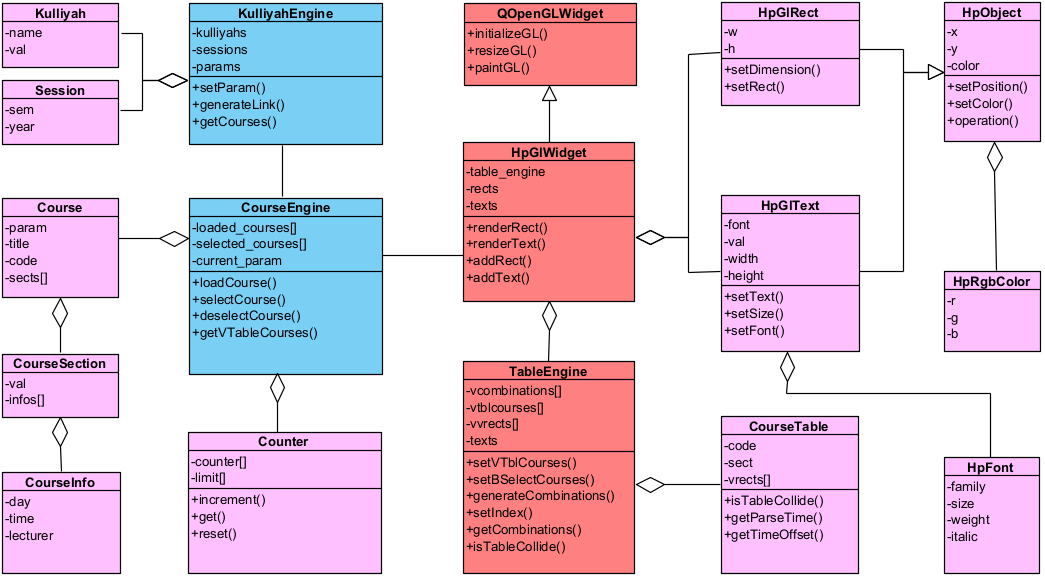
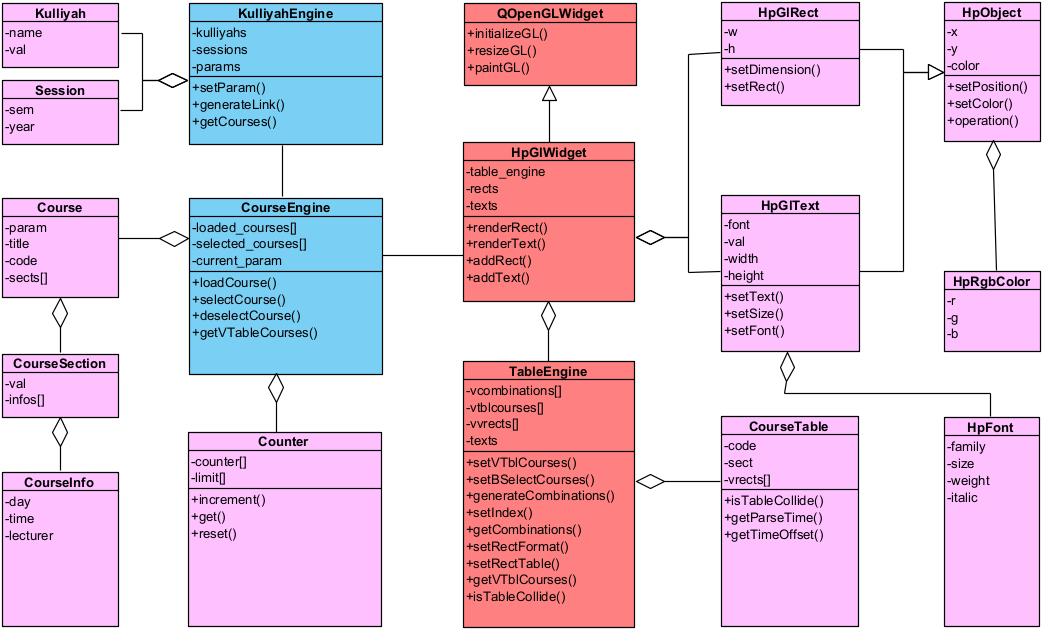
Added Table Format
Additions
- table formatting (date and time)
- vtblcourses getter

Changes
- table combination generation relies on table and format setters
- text renderer can have center and left sided state when rendering text

diff --git a/Prereg_Engines/table_engine.py b/Prereg_Engines/table_engine.py
@@ -1,7 +1,8 @@
-import copy
+import copy, math
 
 from Prereg_Engines.models import CourseTable, Counter, Text
 from HP_Framework.objects import  HpRgbColor
+from Prereg_Engines.models import Vector2n
 
 class TableEngine():
     def __init__(self):
@@ -42,7 +43,6 @@ class TableEngine():
                 self.bselected_courses[i] = bselected_courses[i]
             self.generateCombinations()
         
-
     def generateCombinations(self):
         n_size = 0
         vtbl_courses = []
@@ -87,25 +87,75 @@ class TableEngine():
         self.texts = []
 
         n_vrects = self.vvrects[self.index]
-        n_lower = n_upper = n_left = n_right = 0
+        n_b = {
+            'upper': 0, # 0
+            'right': 0, # 1
+            'lower': 0, # 2
+            'left': 0,  # 3
+        }
 
         for rects in n_vrects:
             for rect in rects:
-                if n_lower == 0 and n_upper == 0 and n_left == 0 and n_right == 0:
-                    n_lower = rect.y
-                    n_upper = rect.y + rect.h
+                if n_b['upper'] == 0 and n_b['right'] == 0 and n_b['lower'] == 0 and n_b['left'] == 0:
+                    n_b['lower'] = rect.y
+                    n_b['upper'] = rect.y + rect.h
                     continue
-                if rect.y < n_lower:
-                    n_lower = rect.y
-                if rect.y + rect.h > n_upper:
-                    n_upper = rect.y + rect.h
-                if rect.x < n_left:
-                    n_left = rect.x
-                if rect.x > n_right:
-                    n_right = rect.x
-        N_W = SCREEN_SIZE_X / (n_right - n_left + 1)  # day width constant
-        N_H = SCREEN_SIZE_Y / (n_upper - n_lower)     # time height constant
+                if rect.y < n_b['lower']:
+                    n_b['lower'] = rect.y
+                if rect.y + rect.h > n_b['upper']:
+                    n_b['upper'] = rect.y + rect.h
+                if rect.x < n_b['left']:
+                    n_b['left'] = rect.x
+                if rect.x > n_b['right']:
+                    n_b['right'] = rect.x
 
+        N_OFFSET = Vector2n(22, 21)
+        N_SIZE = Vector2n(SCREEN_SIZE_X, SCREEN_SIZE_Y)
+
+        args = self.setRectFormat(N_SIZE, N_OFFSET, n_b)
+        
+        N_SIZE.setParameter(SCREEN_SIZE_X - N_OFFSET.x, SCREEN_SIZE_Y - N_OFFSET.y)
+        N_H = args[2]
+        
+        N_OFFSET.y = N_OFFSET.y + N_OFFSET.y / 2 + args[0] * N_H
+        N_SIZE.y = N_SIZE.y - N_OFFSET.y - args[1] * N_H
+
+        self.setRectTable(N_SIZE, N_OFFSET, n_b, n_vrects, args[2])
+
+        return self.vcombinations[self.index]
+    
+    def setRectFormat(self, N_SIZE, N_OFFSET, n_b):
+        N_W = (N_SIZE.x - N_OFFSET.x) / (n_b['right'] - n_b['left'] + 1)  # day width constant
+        str_days = ["MON", "TUE", "WED", "THU", "FRI", "SAT", "SUN"]
+        texts = []
+        for i in range(n_b['left'], n_b['right'] + 1):
+            text = Text()
+            text.x = N_W * ((i - n_b['left']) + 0.5) + N_OFFSET.x
+            text.y = 0
+            text.val = str_days[i]
+            texts.append(text)
+
+        N_LOWER = int(math.floor(n_b['lower'] / 60))
+        N_UPPER = int(math.ceil(n_b['upper'] / 60))
+        N_H = (N_SIZE.y - N_OFFSET.y) / ((N_UPPER - N_LOWER + 1) * 60)     # time height constant
+        for i in range(N_LOWER, N_UPPER + 1):
+            str_i = str(i)
+            if len(str_i) < 2:
+                str_i = "0" + str_i
+            text = Text()
+            text.x = N_OFFSET.x / 2
+            text.y = (i - N_LOWER) * 60 * N_H + N_OFFSET.y
+            text.val = str_i
+            texts.append(text)
+        self.texts.append(texts)
+
+        return [(n_b['lower'] - N_LOWER * 60), (N_UPPER * 60 - n_b['upper']), N_H]
+
+    def setRectTable(self, N_SIZE, N_OFFSET, n_b, n_vrects, N_H):
+        N_W = N_SIZE.x / (n_b['right'] - n_b['left'] + 1)  # day width constant
+        # N_H = N_SIZE.y / (n_b['upper'] - n_b['lower'])     # time height constant
+
+        texts = []
         for i in range(len(self.vcombinations[self.index])):
             self.vcombinations[self.index][i].color = self.color[i]
             for j in range(len(self.vcombinations[self.index][i].vrects)):
@@ -115,8 +165,8 @@ class TableEngine():
 
                     tbl_course = self.vcombinations[self.index][i]
                     rect = tbl_course.vrects[j][k]
-                    rect.x = n_vrects[i][l].x * N_W
-                    rect.y = (n_vrects[i][l].y - n_lower) * N_H
+                    rect.x = (n_vrects[i][l].x - n_b['left']) * N_W + N_OFFSET.x
+                    rect.y = (n_vrects[i][l].y - n_b['lower']) * N_H + N_OFFSET.y
                     rect.w = N_W
                     rect.h = n_vrects[i][l].h * N_H
 
@@ -124,10 +174,12 @@ class TableEngine():
                     text.x = rect.x + rect.w / 2
                     text.y = rect.y + rect.h / 2
                     text.val = tbl_course.code
-                    self.texts.append(text)
+                    texts.append(text)
+        self.texts.append(texts)
 
-        return self.vcombinations[self.index]
-    
+    def getVTblCourses(self):
+        return self.vtblcourses
+
     @staticmethod
     def isTablesCollide(table, tbl_combinations):
         for tbl_course in tbl_combinations:

diff --git a/main.py b/main.py
@@ -97,10 +97,14 @@ class Ui_MainWindow(object):
             for rects in table.vrects:
                 for rect in rects:
                     self.ogl_table.addRect(rect.x, rect.y, rect.w, rect.h, table.color)
-        font = HpFont("Roboto", 6, 600)
-        for text in table_engine.texts:
+                    # print(f'{table.code} => X: {rect.x}, Y: {rect.y}, W: {rect.w}, H: {rect.h}')
+        font = HpFont("Roboto", 10, 600)
+        for text in table_engine.texts[0]:
             self.ogl_table.addText(text.x, text.y, text.val, font, HpRgbColor(255, 255, 255), True)
-            
+        font = HpFont("Roboto", 6, 600)
+        for text in table_engine.texts[1]:
+            self.ogl_table.addText(text.x, text.y, text.val, font, HpRgbColor(255, 255, 255), True, True)
+
     def retranslateUi(self, MainWindow):
         _translate = QtCore.QCoreApplication.translate
         MainWindow.setWindowTitle(_translate("MainWindow", "MainWindow"))

diff --git a/HP_Framework/graphics.py b/HP_Framework/graphics.py
@@ -51,8 +51,14 @@ class HpGlWidget(QOpenGLWidget):
     def addRect(self, x, y, w, h, color):
         self.rects.append(HpGlRect(x, y, w, h, color))
 
-    def addText(self, x, y, text, font, color, bcentered = False):
+    def addText(self, x, y, text, font, color, bcenterx = False, bcentery = False):
         gl_text = HpGlText(x, y, text, font, color, self)
-        if bcentered:
-            gl_text.setPosition(gl_text.x - gl_text.width / 2, gl_text.y - gl_text.height / 2)
+        if bcenterx:
+            x = gl_text.x - gl_text.width / 2
+        if bcentery:
+            y = gl_text.y - gl_text.height / 2
+        if bcenterx or bcentery:
+            gl_text.setPosition(x, y)
+        # if bcenterx and not bcentery:
+        #     print(f'X: {gl_text.x}, Y: {gl_text.y}, W: {gl_text.width}, H: {gl_text.height}')
         self.texts.append(gl_text)

diff --git a/Prereg_Engines/models.py b/Prereg_Engines/models.py
@@ -127,9 +127,13 @@ class CourseTable:
         return n_time_const
 
 class Vector2n:
-    def __init__(self):
-        self.x = 0
-        self.y = 0
+    def __init__(self, x = 0, y = 0):
+        self.x = x
+        self.y = y
+    
+    def setParameter(self, x, y):
+        self.x = x
+        self.y = y
 
 class Rect(Vector2n):
     def __init__(self):
